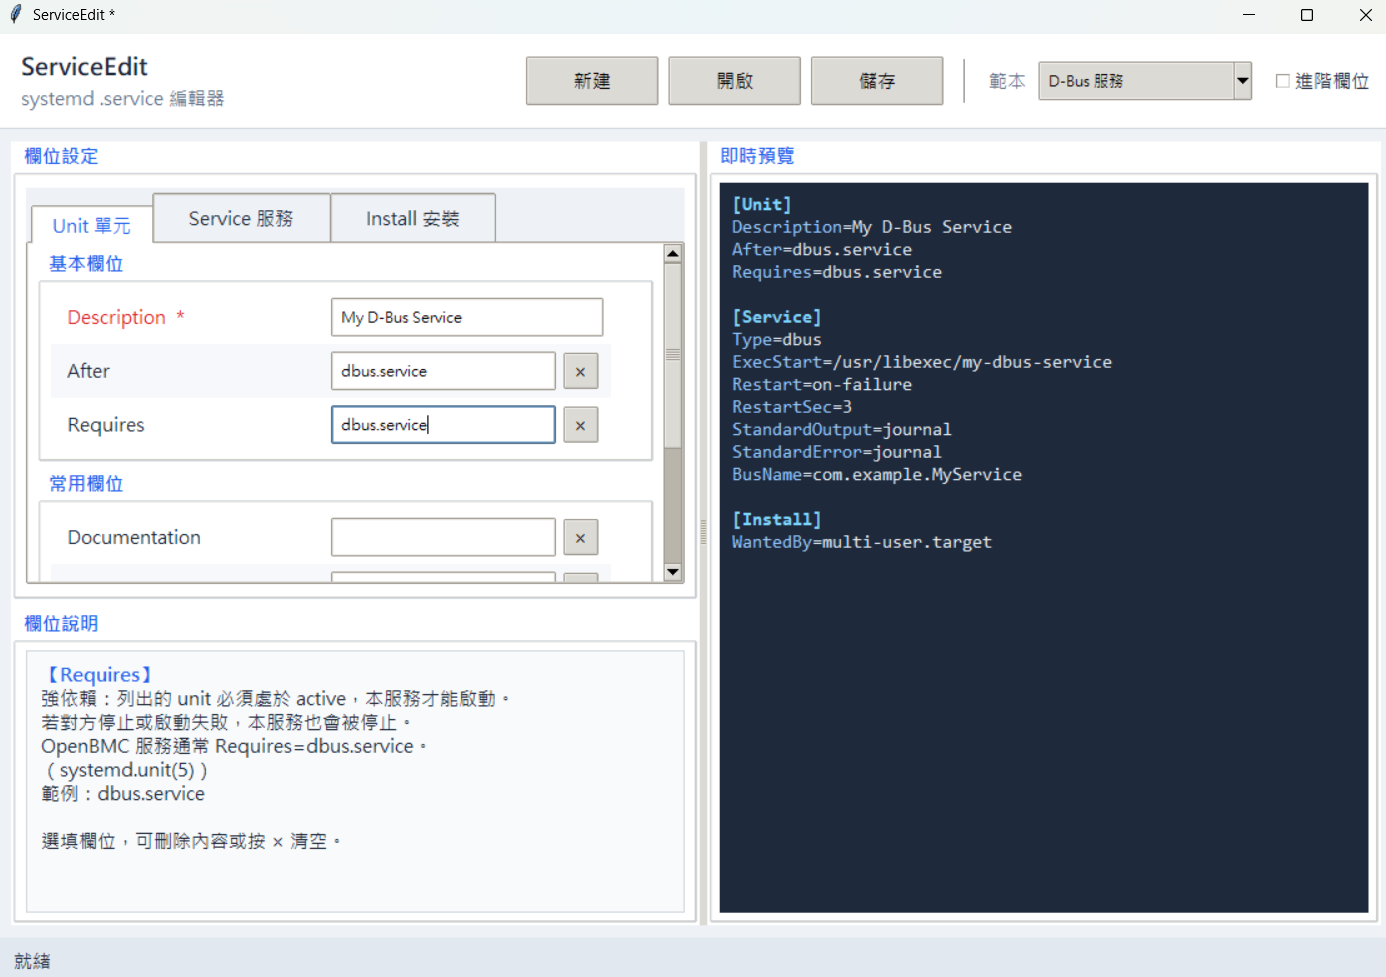
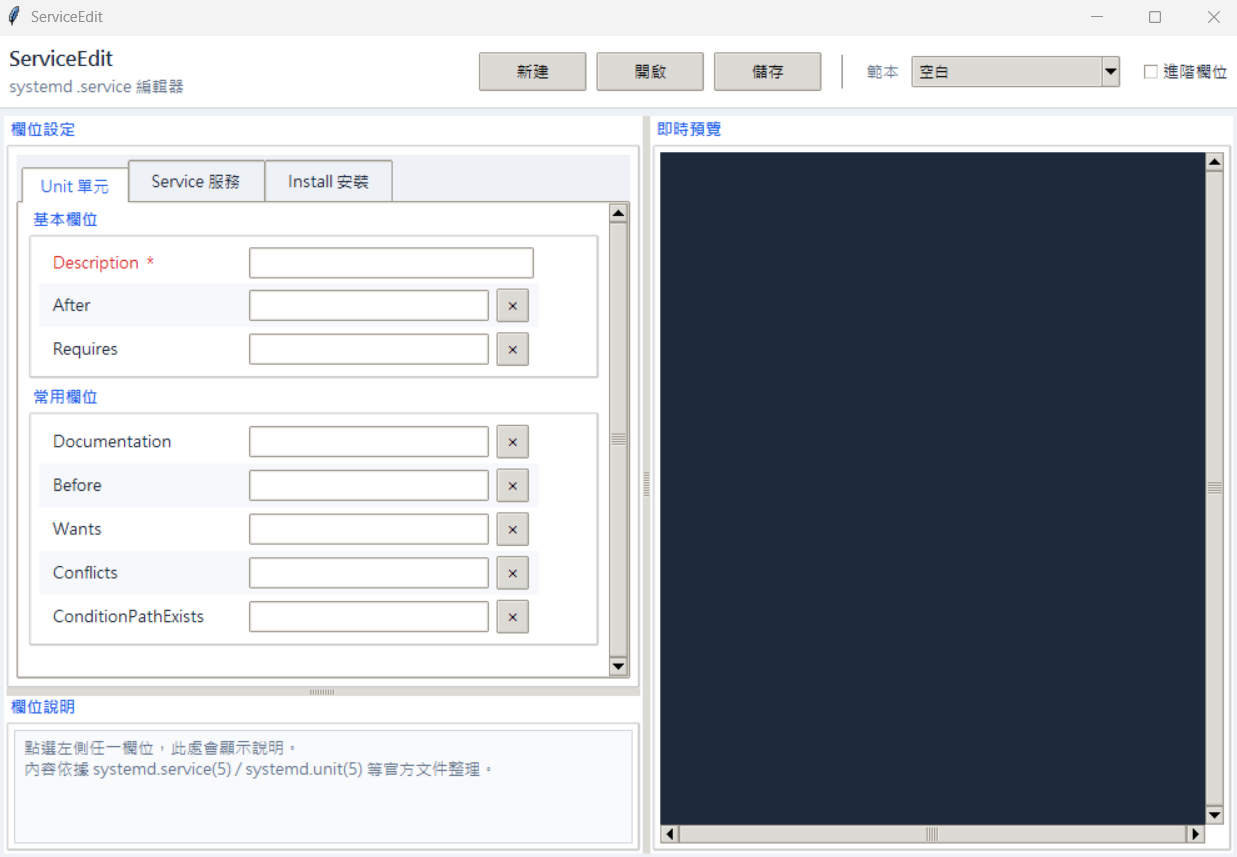
[ServiceEdit_002]: Fix screen size

diff --git a/ServiceEdit/src/gui/app.py b/ServiceEdit/src/gui/app.py
@@ -27,8 +27,8 @@ class ServiceEditApp(tk.Tk):
     def __init__(self, initial_path: Path | None = None):
         super().__init__()
         self.title("ServiceEdit")
-        self.minsize(980, 680)
-        self.geometry("1120x760")
+        self.minsize(880, 580)
+        self.geometry("1000x660")
 
         self._current_path: Path | None = None
         self._vars: dict[str, dict[str, tk.StringVar]] = {}
@@ -42,12 +42,13 @@ class ServiceEditApp(tk.Tk):
         self._suppress_dirty = False
         self._last_template = "空白"
 
-        # 統一字級（11pt）；標題略大
+        # 統一字級（10pt）；標題略大
         _f = "Microsoft JhengHei UI"
-        _s = 11
+        _s = 10
         self._font_ui = (_f, _s)
-        self._font_title = (_f, _s + 3, "bold")
+        self._font_title = (_f, _s + 2, "bold")
         self._font_mono = ("Consolas", _s)
+        self._help_min = 130
 
         self._setup_style()
         self._init_vars()
@@ -64,6 +65,7 @@ class ServiceEditApp(tk.Tk):
         self.bind_all("<Control-o>", lambda _e: self._open_file())
         self.bind_all("<Control-s>", lambda _e: self._save_file())
         self.after(50, self._refresh_preview)
+        self.after(120, self._init_paned_sashes)
 
     def _setup_style(self):
         style = ttk.Style(self)
@@ -112,23 +114,42 @@ class ServiceEditApp(tk.Tk):
             font=(self._font_ui[0], self._font_ui[1], "bold"),
         )
         style.configure("TNotebook", background=c["bg"], borderwidth=0, tabmargins=(4, 4, 0, 0))
-        style.configure("TNotebook.Tab", padding=(18, 8), font=self._font_ui)
+        style.configure("TNotebook.Tab", padding=(10, 6), font=self._font_ui)
         style.map(
             "TNotebook.Tab",
             background=[("selected", c["surface"]), ("!selected", c["bg"])],
             foreground=[("selected", c["accent"]), ("!selected", c["text"])],
         )
-        style.configure("TButton", padding=(14, 7), font=self._font_ui)
+        style.configure("TButton", padding=(8, 4), font=self._font_ui)
         style.configure("Clear.TButton", padding=(2, 2), width=2, font=self._font_ui)
-        style.configure("TEntry", padding=6, fieldbackground=c["surface"], font=self._font_ui)
-        style.configure("TCombobox", padding=6, fieldbackground=c["surface"], font=self._font_ui)
+        style.configure("TEntry", padding=(4, 3), fieldbackground=c["surface"], font=self._font_ui)
+        style.configure("TCombobox", padding=(4, 3), fieldbackground=c["surface"], font=self._font_ui)
         style.configure("Header.TCheckbutton", background=c["header_bg"], foreground=c["text"], font=self._font_ui)
         style.configure("TCheckbutton", background=c["surface"], font=self._font_ui)
         style.configure("TSeparator", background=c["border"])
-        style.configure("Status.TLabel", background=c["status_bg"], foreground=c["text"], padding=(12, 7), font=self._font_ui)
+        style.configure("Status.TLabel", background=c["status_bg"], foreground=c["text"], padding=(10, 5), font=self._font_ui)
+
+    def _configure_left_panes(self):
+        try:
+            self._left_paned.paneconfig(self._help_host, minsize=self._help_min)
+            self._left_paned.paneconfig(self._form_host, minsize=200)
+        except tk.TclError:
+            pass
+
+    def _init_paned_sashes(self):
+        try:
+            self.update_idletasks()
+            w = max(self._main_paned.winfo_width(), 400)
+            self._main_paned.sashpos(0, int(w * 0.52))
+
+            h = max(self._left_paned.winfo_height(), self._help_min + 200)
+            sash = max(200, h - self._help_min)
+            self._left_paned.sashpos(0, sash)
+        except tk.TclError:
+            pass
 
     def _build_header(self):
-        header = ttk.Frame(self, style="Header.TFrame", padding=(18, 12))
+        header = ttk.Frame(self, style="Header.TFrame", padding=(10, 6))
         header.pack(fill=tk.X)
 
         title_box = ttk.Frame(header, style="Header.TFrame")
@@ -169,18 +190,31 @@ class ServiceEditApp(tk.Tk):
 
     def _build_body(self):
         paned = ttk.Panedwindow(self, orient=tk.HORIZONTAL)
-        paned.pack(fill=tk.BOTH, expand=True, padx=12, pady=10)
+        paned.pack(fill=tk.BOTH, expand=True, padx=8, pady=6)
+        self._main_paned = paned
 
         left = ttk.Frame(paned, style="Surface.TFrame", padding=2)
         right = ttk.Frame(paned, style="Surface.TFrame", padding=2)
         paned.add(left, weight=3)
         paned.add(right, weight=2)
 
-        form_card = ttk.LabelFrame(left, text="  欄位設定  ", padding=(4, 6))
+        left_paned = ttk.Panedwindow(left, orient=tk.VERTICAL)
+        left_paned.pack(fill=tk.BOTH, expand=True)
+        self._left_paned = left_paned
+
+        form_host = ttk.Frame(left_paned, style="Surface.TFrame")
+        help_host = ttk.Frame(left_paned, style="Surface.TFrame")
+        self._form_host = form_host
+        self._help_host = help_host
+        left_paned.add(form_host, weight=5)
+        left_paned.add(help_host, weight=2)
+        self.after_idle(lambda: self._configure_left_panes())
+
+        form_card = ttk.LabelFrame(form_host, text=" 欄位設定 ", padding=(4, 4))
         form_card.pack(fill=tk.BOTH, expand=True)
 
         self._notebook = ttk.Notebook(form_card)
-        self._notebook.pack(fill=tk.BOTH, expand=True, padx=4, pady=4)
+        self._notebook.pack(fill=tk.BOTH, expand=True, padx=2, pady=2)
 
         self._tab_frames: dict[str, ttk.Frame] = {}
         for section in SECTIONS_ORDER:
@@ -194,7 +228,7 @@ class ServiceEditApp(tk.Tk):
                 bg=self._c["surface"],
             )
             scrollbar = ttk.Scrollbar(outer, orient=tk.VERTICAL, command=canvas.yview)
-            inner = ttk.Frame(canvas, style="Surface.TFrame", padding=(8, 6))
+            inner = ttk.Frame(canvas, style="Surface.TFrame", padding=(8, 4))
             window_id = canvas.create_window((0, 0), window=inner, anchor="nw")
 
             def _on_inner_configure(_event, c=canvas):
@@ -214,19 +248,18 @@ class ServiceEditApp(tk.Tk):
             self._bind_canvas_mousewheel(canvas, inner)
             self._section_canvas[section] = canvas
 
-        help_frame = ttk.LabelFrame(left, text="  欄位說明  ", padding=(8, 6))
-        help_frame.pack(fill=tk.X, pady=(10, 0))
+        help_frame = ttk.LabelFrame(help_host, text=" 欄位說明 ", padding=(4, 4))
+        help_frame.pack(fill=tk.BOTH, expand=True)
 
         self._help_text = tk.Text(
             help_frame,
-            height=10,
             wrap=tk.WORD,
             font=self._font_ui,
             relief=tk.FLAT,
             bg=self._c["help_bg"],
             fg=self._c["text"],
-            padx=10,
-            pady=8,
+            padx=6,
+            pady=4,
             borderwidth=1,
             highlightthickness=1,
             highlightbackground=self._c["border"],
@@ -246,8 +279,10 @@ class ServiceEditApp(tk.Tk):
         self._set_help_text(DEFAULT_HELP)
         self._bind_text_mousewheel(self._help_text)
 
-        preview_frame = ttk.LabelFrame(right, text="  即時預覽  ", padding=(6, 6))
+        preview_frame = ttk.LabelFrame(right, text=" 即時預覽 ", padding=(4, 4))
         preview_frame.pack(fill=tk.BOTH, expand=True)
+        preview_frame.columnconfigure(0, weight=1)
+        preview_frame.rowconfigure(0, weight=1)
 
         self._preview = tk.Text(
             preview_frame,
@@ -256,15 +291,17 @@ class ServiceEditApp(tk.Tk):
             bg=self._c["preview_bg"],
             fg=self._c["preview_fg"],
             relief=tk.FLAT,
-            padx=10,
-            pady=8,
+            padx=8,
+            pady=6,
             borderwidth=0,
             insertbackground=self._c["preview_fg"],
         )
-        yscroll = ttk.Scrollbar(preview_frame, command=self._preview.yview)
-        self._preview.configure(yscrollcommand=yscroll.set)
-        self._preview.pack(side=tk.LEFT, fill=tk.BOTH, expand=True)
-        yscroll.pack(side=tk.RIGHT, fill=tk.Y)
+        yscroll = ttk.Scrollbar(preview_frame, orient=tk.VERTICAL, command=self._preview.yview)
+        xscroll = ttk.Scrollbar(preview_frame, orient=tk.HORIZONTAL, command=self._preview.xview)
+        self._preview.configure(yscrollcommand=yscroll.set, xscrollcommand=xscroll.set)
+        self._preview.grid(row=0, column=0, sticky="nsew")
+        yscroll.grid(row=0, column=1, sticky="ns")
+        xscroll.grid(row=1, column=0, sticky="ew")
         self._preview.tag_configure(
             "section",
             foreground=self._c["preview_section"],
@@ -272,7 +309,7 @@ class ServiceEditApp(tk.Tk):
         )
         self._preview.tag_configure("key", foreground=self._c["preview_key"])
         self._preview.configure(state=tk.DISABLED)
-        self._bind_text_mousewheel(self._preview)
+        self._bind_preview_mousewheel(self._preview)
 
     def _wheel_scroll_canvas(self, canvas: tk.Canvas, event):
         canvas.yview_scroll(int(-1 * (event.delta / 120)), "units")
@@ -297,6 +334,18 @@ class ServiceEditApp(tk.Tk):
 
         text.bind("<MouseWheel>", _on_wheel)
 
+    def _bind_preview_mousewheel(self, text: tk.Text):
+        def _on_wheel(event):
+            delta = int(-1 * (event.delta / 120))
+            if event.state & 0x1:
+                text.xview_scroll(delta, "units")
+            else:
+                text.yview_scroll(delta, "units")
+            return "break"
+
+        text.bind("<MouseWheel>", _on_wheel)
+        text.bind("<Shift-MouseWheel>", _on_wheel)
+
     def _build_section_form(self, section: str, parent: ttk.Frame):
         self._tier_frames[section] = {}
 
@@ -309,15 +358,15 @@ class ServiceEditApp(tk.Tk):
             if not items:
                 continue
 
-            lf = ttk.LabelFrame(parent, text=f"  {TIER_LABELS[tier]}  ", padding=(8, 6))
-            lf.pack(fill=tk.X, pady=(0, 8))
+            lf = ttk.LabelFrame(parent, text=f" {TIER_LABELS[tier]} ", padding=(6, 4))
+            lf.pack(fill=tk.X, pady=(0, 6))
             lf.columnconfigure(1, weight=1)
             self._tier_frames[section][tier] = lf
 
             for row_idx, (key, meta) in enumerate(items):
                 self._add_field_row(lf, section, key, meta, row_idx)
 
-        extra_box = ttk.LabelFrame(parent, text="  其他欄位  ", padding=(8, 6))
+        extra_box = ttk.LabelFrame(parent, text=" 其他欄位 ", padding=(6, 4))
         extra_box.pack(fill=tk.X, pady=(0, 4))
         extra_box.pack_forget()
         extra_box.columnconfigure(1, weight=1)
@@ -334,7 +383,7 @@ class ServiceEditApp(tk.Tk):
         required = meta.get("required", False)
         stripe = self._c["surface"] if row % 2 == 0 else self._c["stripe"]
 
-        block = tk.Frame(parent, bg=stripe, padx=6, pady=6)
+        block = tk.Frame(parent, bg=stripe, padx=4, pady=4)
         block.grid(row=row, column=0, sticky=tk.EW)
         parent.columnconfigure(0, weight=1)
 
@@ -346,7 +395,7 @@ class ServiceEditApp(tk.Tk):
             bg=stripe,
             fg=fg,
             font=self._font_ui,
-            width=22,
+            width=18,
             anchor=tk.W,
         ).grid(row=0, column=0, sticky=tk.W, padx=(4, 0))
 
@@ -519,7 +568,7 @@ class ServiceEditApp(tk.Tk):
             bg=stripe,
             fg=self._c["text"],
             font=self._font_ui,
-            width=22,
+            width=18,
             anchor=tk.W,
         ).grid(row=0, column=0, sticky=tk.W, padx=(4, 0))
         entry = ttk.Entry(row_frame, textvariable=var)

diff --git a/ServiceEdit/src/main.py b/ServiceEdit/src/main.py
@@ -15,6 +15,24 @@ from pathlib import Path
 sys.path.insert(0, str(Path(__file__).resolve().parent))
 
 
+def _detach_console_on_windows() -> None:
+    """GUI 模式用 pythonw 重新啟動，避免留下 CMD 視窗。"""
+    if sys.platform != "win32" or getattr(sys, "frozen", False):
+        return
+    if "--cli" in sys.argv[1:]:
+        return
+    exe = Path(sys.executable)
+    if exe.stem.lower() != "python":
+        return
+    pythonw = exe.with_name("pythonw.exe")
+    if not pythonw.is_file():
+        return
+    import subprocess
+
+    subprocess.Popen([str(pythonw), str(Path(__file__).resolve()), *sys.argv[1:]])
+    raise SystemExit(0)
+
+
 def main():
     args = [a for a in sys.argv[1:] if a != "--cli"]
     use_cli = "--cli" in sys.argv[1:]
@@ -34,4 +52,5 @@ def main():
 
 
 if __name__ == "__main__":
+    _detach_console_on_windows()
     main()